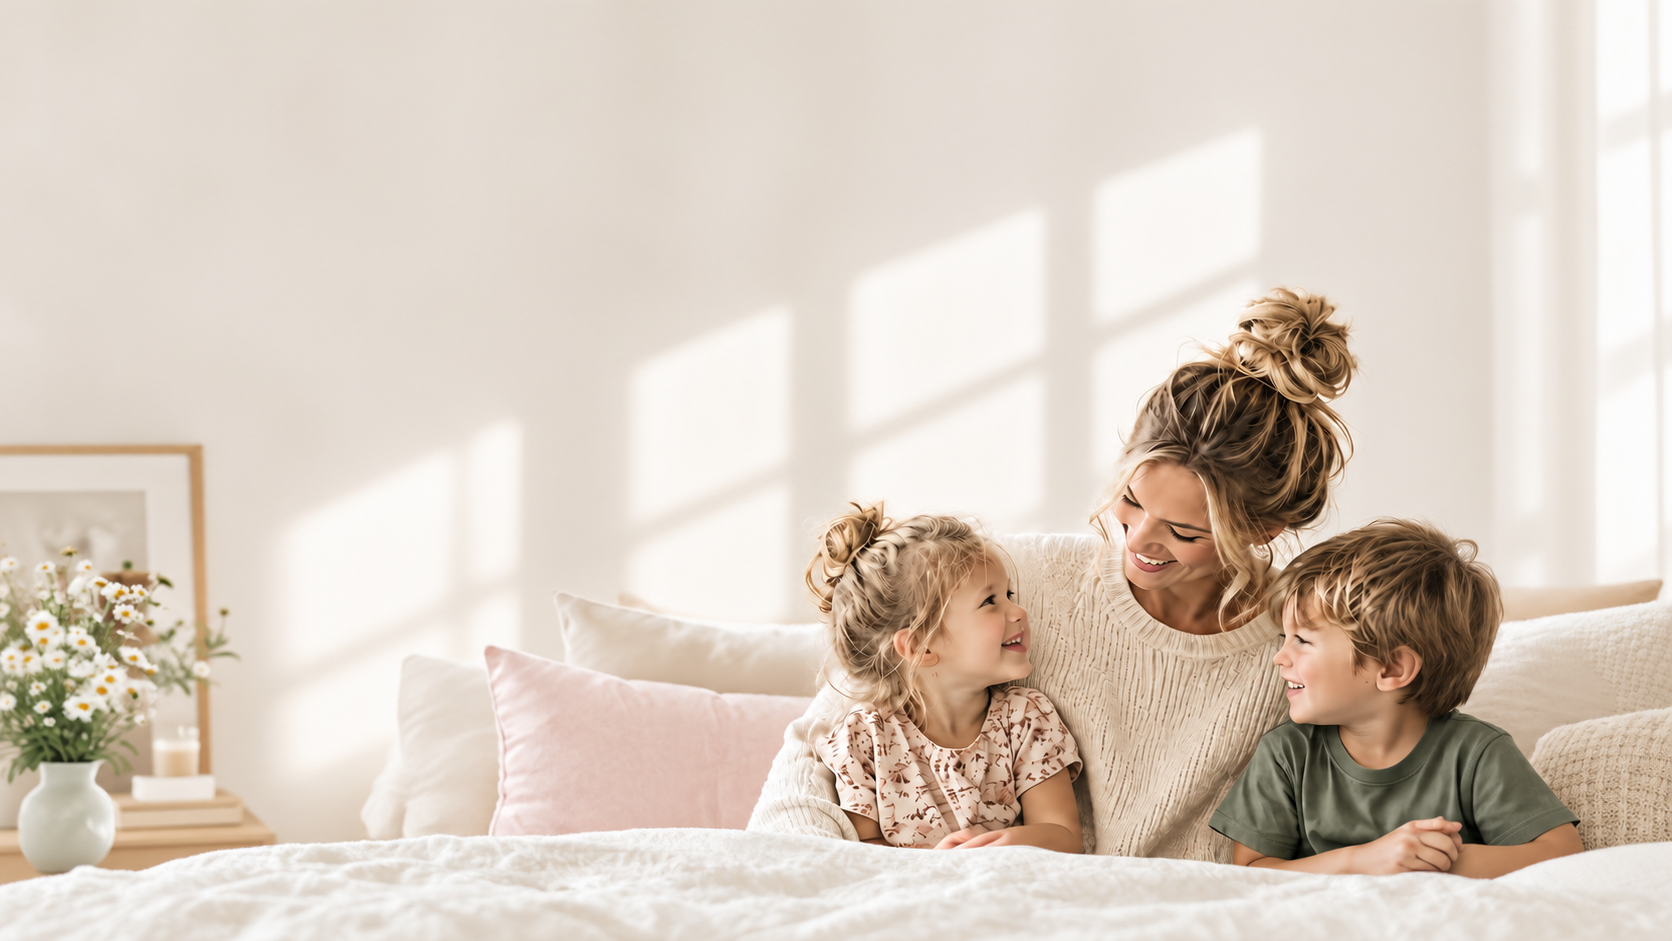
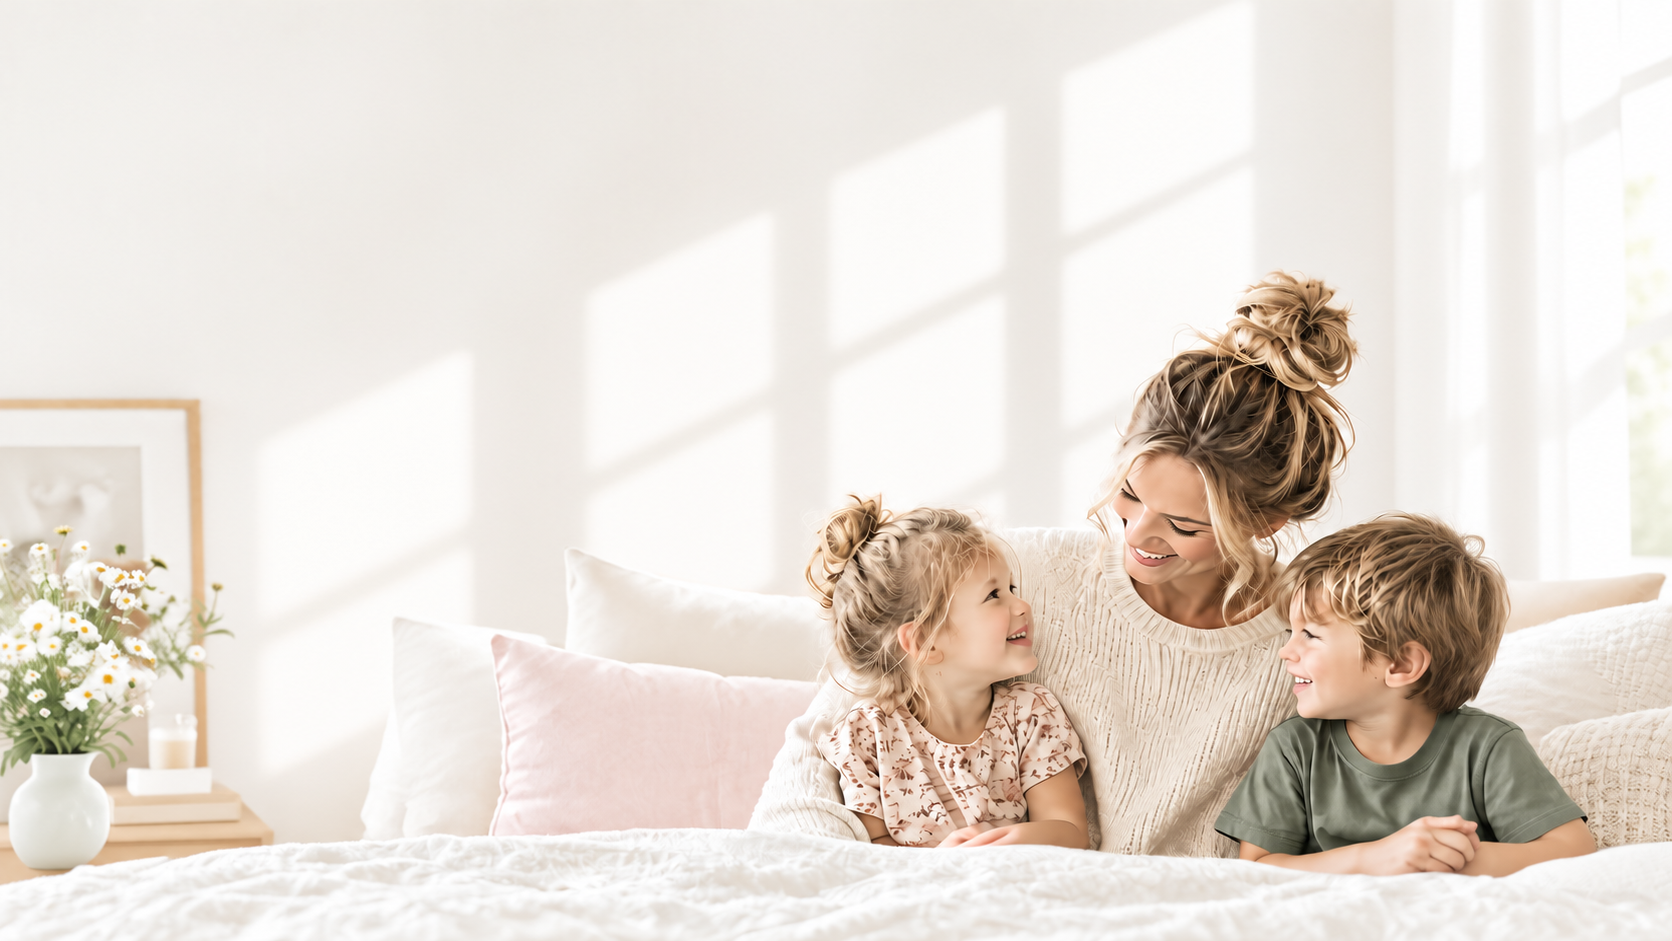
Brighten hero section and header navbar to match warm sunlit photo tones and refine desktop hero content size

diff --git a/css/style.css b/css/style.css
@@ -24,8 +24,9 @@
   --color-blush-soft: #fcf4f2;
   --color-blush-border: #f4d0c9;
 
-  --color-wall-portrait: #e9e1d7;
-  --color-wall-landscape: #e4dbd0;
+  --color-wall-portrait: #f7f2ea;
+  --color-wall-landscape: #f7f2ea;
+  --color-header-bg: rgba(247, 242, 234, 0.94);
 
   /* Typography */
   --font-serif: 'Cormorant Garamond', Georgia, serif;
@@ -119,18 +120,16 @@ ul {
   left: 0;
   width: 100%;
   z-index: 100;
-  background-color: transparent;
-  backdrop-filter: none;
-  -webkit-backdrop-filter: none;
-  border-bottom: 1px solid transparent;
-  box-shadow: none;
-  transition: background-color 0.35s ease, border-color 0.35s ease, box-shadow 0.35s ease, backdrop-filter 0.35s ease, -webkit-backdrop-filter 0.35s ease;
+  background-color: var(--color-header-bg);
+  backdrop-filter: blur(14px);
+  -webkit-backdrop-filter: blur(14px);
+  border-bottom: 1px solid rgba(67, 85, 72, 0.06);
+  box-shadow: 0 2px 14px rgba(50, 60, 52, 0.04);
+  transition: background-color 0.35s ease, border-color 0.35s ease, box-shadow 0.35s ease;
 }
 
 .site-header.scrolled {
-  background-color: rgba(246, 241, 234, 0.96);
-  backdrop-filter: blur(12px);
-  -webkit-backdrop-filter: blur(12px);
+  background-color: rgba(247, 242, 234, 0.98);
   border-bottom: 1px solid rgba(67, 85, 72, 0.09);
   box-shadow: 0 4px 20px rgba(50, 60, 52, 0.08);
 }
@@ -242,7 +241,7 @@ ul {
   align-items: center;
   justify-content: flex-start;
   background-color: var(--color-wall-portrait);
-  background-image: url('../images/bg_portrait.png');
+  background-image: linear-gradient(180deg, rgba(255, 252, 247, 0.22) 0%, rgba(255, 255, 255, 0) 35%), url('../images/bg_portrait.png');
   background-repeat: no-repeat;
   background-position: center top;
   background-size: cover;
@@ -1640,11 +1639,11 @@ ul {
     padding-left: 0;
   }
 
-  /* Full desktop hero without artificial bright light */
+  /* Full desktop hero with bright sunlit warmth matching the image */
   .hero-section {
     aspect-ratio: auto;
     background-color: var(--color-wall-landscape);
-    background-image: url('../images/bg_landscape.png');
+    background-image: linear-gradient(to right, rgba(255, 253, 249, 0.35) 0%, rgba(255, 252, 247, 0.20) 45%, rgba(255, 255, 255, 0) 75%), url('../images/bg_landscape.png');
     background-repeat: no-repeat;
     background-position: right bottom;
     background-size: cover;
@@ -1665,13 +1664,13 @@ ul {
     align-items: flex-start;
   }
 
-  /* Enlarge hero-content inside hero section */
+  /* Refined, balanced hero-content inside hero section */
   .hero-content {
     display: flex;
     flex-direction: column;
     align-items: center;
     text-align: center;
-    max-width: 620px;
+    max-width: 470px;
     margin: 0;
   }
 
@@ -1680,12 +1679,12 @@ ul {
     justify-content: center;
     width: 100%;
     margin-left: 0;
-    margin-bottom: 16px;
+    margin-bottom: 12px;
   }
 
   .hero-heart-badge .heart-svg {
-    width: 32px;
-    height: 32px;
+    width: 24px;
+    height: 24px;
   }
 
   .hero-headline {
@@ -1694,18 +1693,18 @@ ul {
     align-items: center;
     text-align: center;
     width: 100%;
-    margin-bottom: 28px;
+    margin-bottom: 20px;
   }
 
   .script-line {
     font-family: 'Brittany Signature', var(--font-script);
-    font-size: clamp(4.8rem, 6.2vw, 5.8rem);
+    font-size: clamp(3.2rem, 4.2vw, 3.9rem);
     font-weight: 400;
     font-style: normal;
     color: #314236;
     text-align: center;
     transform: none;
-    margin-bottom: 6px;
+    margin-bottom: 4px;
     letter-spacing: normal;
     line-height: 1.2;
     text-rendering: optimizeLegibility;
@@ -1720,7 +1719,7 @@ ul {
 
   .serif-line {
     font-family: var(--font-headline-serif);
-    font-size: 4.15rem;
+    font-size: clamp(2.15rem, 2.7vw, 2.65rem);
     font-weight: 400;
     color: #314236;
     text-align: center;
@@ -1735,15 +1734,15 @@ ul {
     display: flex;
     justify-content: center;
     width: 100%;
-    margin-bottom: 28px;
-    gap: 16px;
+    margin-bottom: 20px;
+    gap: 12px;
   }
 
   .btn-hero-primary, .btn-hero-secondary {
-    font-size: 1.08rem;
+    font-size: 0.98rem;
     font-weight: 500;
-    padding: 15px 34px;
-    box-shadow: 0 6px 18px rgba(40, 56, 45, 0.22);
+    padding: 12px 26px;
+    box-shadow: 0 4px 14px rgba(40, 56, 45, 0.18);
   }
 
   .btn-hero-primary .btn-arrow,
@@ -1830,8 +1829,8 @@ ul {
 
   .hero-wrapper {
     padding-left: clamp(60px, 8vw, 130px);
-    padding-top: 50px;
-    padding-bottom: 50px;
+    padding-top: clamp(85px, 11vh, 120px);
+    padding-bottom: 45px;
   }
 
   .hero-section {
@@ -1842,24 +1841,24 @@ ul {
   }
 
   .hero-content {
-    max-width: 680px;
+    max-width: 480px;
   }
 
   .script-line {
-    font-size: 5.8rem;
+    font-size: 4.1rem;
   }
 
   .serif-line {
-    font-size: 4.25rem;
+    font-size: 2.85rem;
   }
 
   .btn-hero-primary, .btn-hero-secondary {
-    font-size: 1.18rem;
-    padding: 16px 38px;
+    font-size: 1.02rem;
+    padding: 13px 28px;
   }
 
   .hero-divider {
-    max-width: 290px;
+    max-width: 240px;
   }
 }
 
